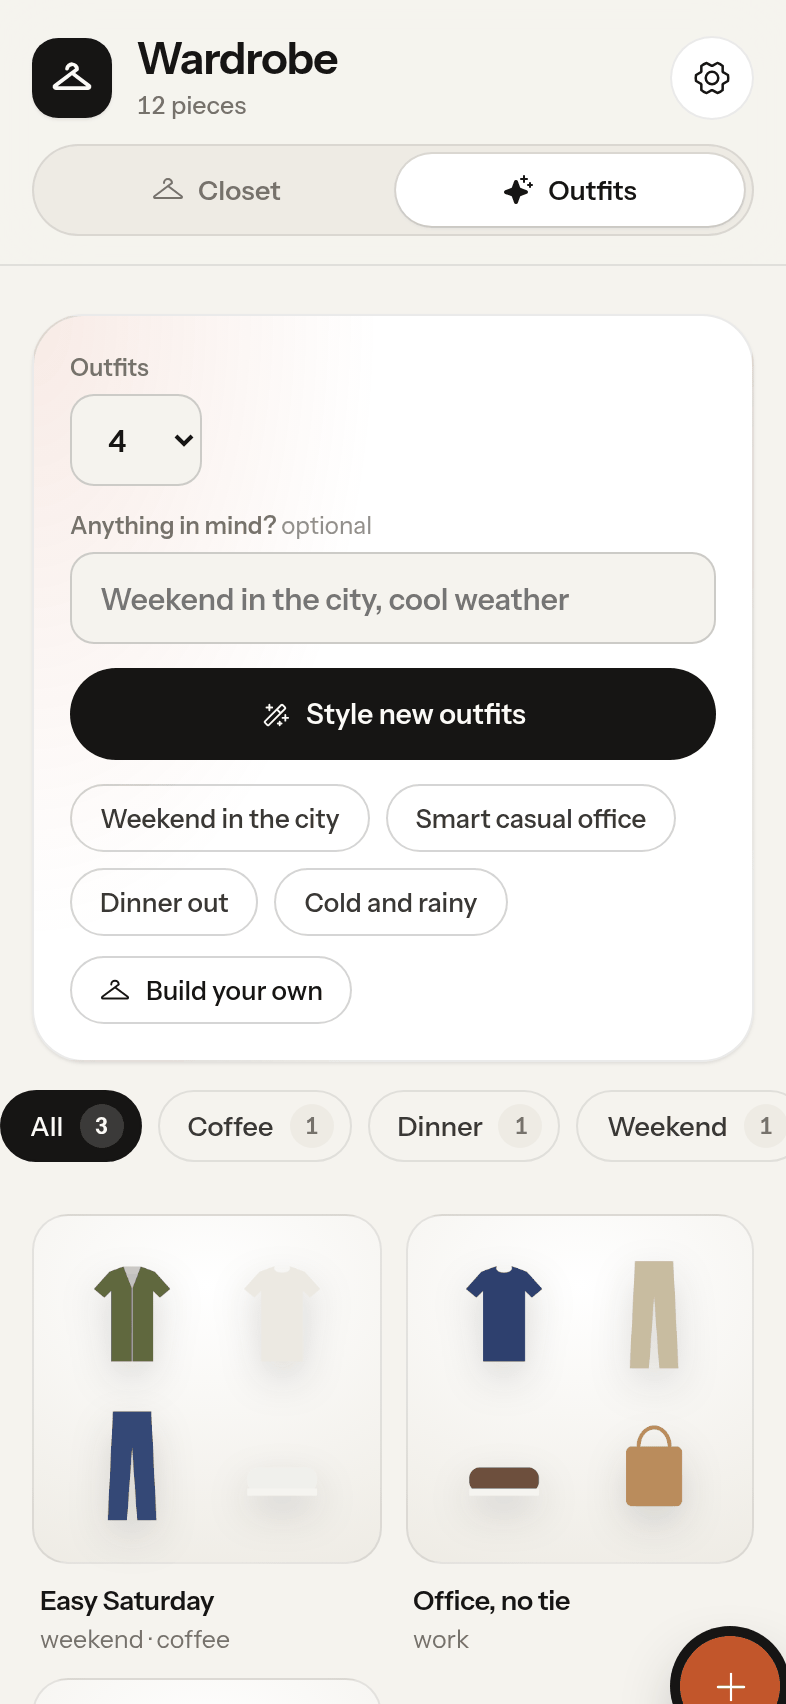
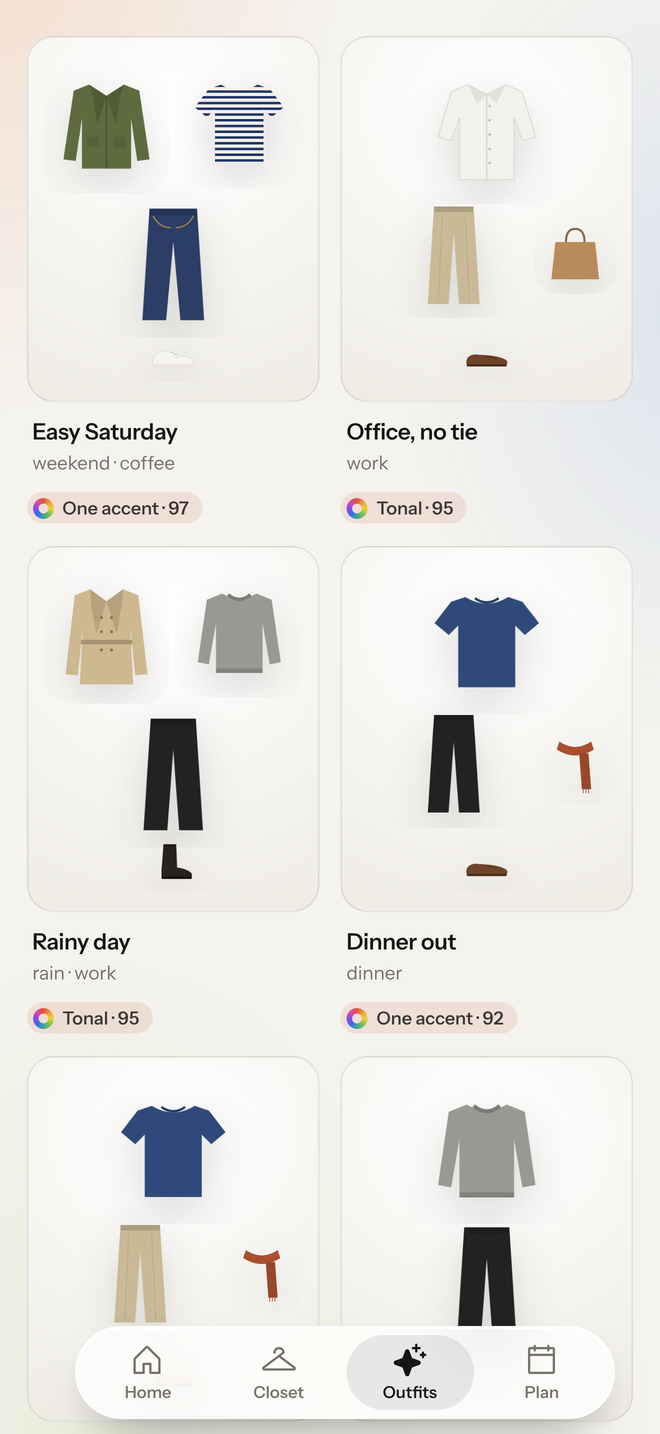
README: what is new up to 3.5.0, fresh screenshots

diff --git a/README.md b/README.md
@@ -2,24 +2,24 @@
 
 # Wardrobe
 
-Your closet on the web, on iPhone and iPad, and on Android. Snap a photo, and the AI you pick (Claude, ChatGPT or Gemini) finds each piece, cuts it out, and styles outfits from what you own.
+Your closet on the web, on iPhone and iPad, and on Android. Snap a photo, and the AI you pick (Claude, ChatGPT or Gemini) finds each piece, cuts it out, and styles outfits from what you own. Each morning, Home has an outfit ready, made on your phone.
 
-[![Version 2.3.0](https://img.shields.io/badge/version-2.3.0-191919?style=flat-square)](CHANGELOG.md)
+[![Version 3.5.0](https://img.shields.io/badge/version-3.5.0-191919?style=flat-square)](CHANGELOG.md)
 [![License: MIT](https://img.shields.io/badge/license-MIT-191919?style=flat-square)](LICENSE)
 [![Node 22+](https://img.shields.io/badge/node-22%2B-191919?style=flat-square)](package.json)
 [![AI: Claude, ChatGPT or Gemini](https://img.shields.io/badge/AI-Claude%20%7C%20ChatGPT%20%7C%20Gemini-191919?style=flat-square)](#pick-your-ai)
+[![iCloud](https://img.shields.io/badge/iCloud-no%20server%20needed-191919?style=flat-square)](#icloud-closet-no-server)
 [![Docker](https://img.shields.io/badge/docker-amd64%20%7C%20arm64-191919?style=flat-square)](docs/synology.md)
-[![Synology](https://img.shields.io/badge/Synology-Container%20Manager-191919?style=flat-square)](docs/synology.md)
 
 Based on [tandpfun/wardrobe](https://github.com/tandpfun/wardrobe) ([original post](https://x.com/cdngdev/status/2076812846793650485)).
 
 </div>
 
-![Wardrobe with a real closet](docs/screenshots/real-closet.png)
+<p align="center"><img src="docs/screenshots/phone-home.png" width="200"> <img src="docs/screenshots/phone-closet.png" width="200"> <img src="docs/screenshots/phone-piece.png" width="200"> <img src="docs/screenshots/phone-plan.png" width="200"></p>
 
-<sub>A real closet from the original project. The other screenshots below use a small drawn sample closet.</sub>
+<sub>Screenshots use a small drawn sample closet.</sub>
 
-**[What's new](#whats-new-in-22)** ·
+**[What's new](#whats-new-in-35)** ·
 **[What it does](#what-it-does)** ·
 **[Screenshots](#screenshots)** ·
 **[Quick start](#quick-start-on-your-computer)** ·
@@ -31,103 +31,85 @@ Based on [tandpfun/wardrobe](https://github.com/tandpfun/wardrobe) ([original po
 **[App stores](#releasing-to-the-app-stores)** ·
 **[Settings](#settings)**
 
-## What's new in 3.0
+## What's new in 3.5
+
+Everything since 3.0, in short. See the [changelog](CHANGELOG.md) for every change.
+
+- **Home.** The app opens on an outfit for today, laid out as worn, with a line that says why it works. Lock the pieces you like and shuffle the rest, swap one piece, say "Not me", or keep it with the heart. A strip shows the next seven days with the weather.
+- **Outfits with no AI.** The phone puts outfits together by itself from the color wheel, the weather, how dressy each piece is and how long it has rested. No key, no cost, and it works offline.
+- **Home Screen widget** on iPhone with today's outfit, in small and medium sizes.
+- **A page for each piece.** How often you wore it, cost per wear, a short note on how to wear it, and pieces from your closet that go well with it.
+- **Plan.** Past days show what you wore. Give a day an occasion (Work, Casual, Dinner or Formal), pin a day so it stays, and set how long a piece rests after a wear.
+- **Your closet in numbers.** Pieces worn in 60 days, closet value, cost per wear, colors, most worn and not worn lately.
+- **Modest wear.** Abaya, thobe, hijab, shemagh and bisht, with their Arabic names, and outfits that pair them.
+- **Easier imports.** The system photo picker on iPhone, a queue that carries on after you close the app, "Try again" for failed photos, and "Add all to my closet".
+- **Feel and look.** Taps you can feel on iPhone, Light, Dark or Auto, seven accent colors, wind and rain in the forecast.
+- **Safer and faster.** A smaller first load, and a protected server that only answers the apps and the sites you name.
+
+## What was new in 3.0
 
 - **No server needed on iPhone and iPad.** Pick **Use iCloud** on the first screen and your closet lives in your own iCloud, synced across your Apple devices. Nothing goes to us.
 - **The AI is called from your phone** with the key you paste, kept in the Keychain.
 - **Move an existing closet** from your server to iCloud in Settings. The server keeps its copy.
 
-## What was new in 2.6
+<details>
+<summary>Older versions (2.1 to 2.6)</summary>
 
-- **Arabic.** The whole app in Arabic, right to left. Switch in Settings.
-- **Dressed for the weather.** Turn on Weather and Today and the plan suit the forecast.
-- **Basics without a photo.** Add a white tee or navy jeans in two taps.
-- **Cleaner cutouts.** Clean cut on iPhone, and a Fix edges brush everywhere.
+- **2.6:** the whole app in Arabic, right to left. Weather for the day. Basics you add with no photo. Clean cutouts on iPhone and a Fix edges brush.
+- **2.5:** the Plan tab fills a month with outfits in one tap, with packing lists for trips. Pieces sort themselves into groups such as Winter, Work and Neutrals. A see-through glass look.
+- **2.4:** a Today card, a row of clothes you have not worn in 60 days, a wear log with cost per wear, and outfits built on the color wheel with a score.
+- **2.3:** the Android app, a bottom tab bar on phones, a clear first run, a yes before any photo goes to an AI, safer image links, and one-button releases to TestFlight and Google Play.
+- **2.2:** pick Claude, ChatGPT or Gemini in Settings and paste its key there.
+- **2.1:** build outfits yourself, edit and filter outfits, filter by color, a new look with dark mode, and a Synology NAS guide.
 
-## What was new in 2.5
-
-- **Plan a month in one tap.** The new Plan tab fills every day with an outfit, with no repeats inside a week. Add a trip and get a packing list.
-- **Sorted for you.** Pieces get a kind, seasons, warmth and dress level, and the closet groups them: Winter, Summer, Work, Neutrals and more.
-- **Glass look.** See-through bars and a floating tab bar, kept light on the battery.
-
-## What was new in 2.4
-
-- **Home.** The app opens on one outfit for today, made on the phone with no AI. Lock a piece and shuffle the rest, say "Not me", or save it with the heart.
-- **Clothes you forgot.** A row shows what has not been worn in 60 days or more.
-- **Wear log and cost per wear.** Tap **Wore today**, add the price, and see what each wear costs.
-- **Outfits built on the color wheel.** Pick tonal, neighbors, opposites or three-way. Every outfit shows its rule and a score.
-
-## What was new in 2.3
-
-Version 2.3 gets the phone apps ready for the App Store and Google Play. See the [changelog](CHANGELOG.md) for every change.
-
-- **Android app.** The same app now runs on Android phones, next to the iPhone and iPad app. See [Android app](#android-app).
-- **Easier on a phone.** Closet and Outfits sit in a tab bar at the bottom, and the header scrolls away so your clothes get the screen.
-- **Clear first run.** The phone app says what you need (a server, its address and its token) and links to the setup guide.
-- **You say yes before any photo goes to an AI.** The app asks once for each AI and names the company behind it.
-- **Safer image links.** Your access token no longer appears in image links or server logs.
-- **One-button releases.** Publishing a GitHub release builds both phone apps and sends them to TestFlight and Google Play. See [Releasing to the app stores](#releasing-to-the-app-stores).
-
-## What was new in 2.2
-
-- **Pick your AI.** Choose Claude, ChatGPT or Gemini in Settings and paste its API key there. No more editing `.env` and restarting. See [Pick your AI](#pick-your-ai).
-
-## What was new in 2.1
-
-Version 2.1 brings together the best of two other builds of this app with our own work. See the [changelog](CHANGELOG.md) for every change.
-
-- **Build outfits yourself.** Pick pieces, give the look a name, occasions and a note, and save it next to the ones the AI styles.
-- **Edit and filter outfits.** Rename an outfit, change its occasions or note, filter the list by occasion, and tap any piece to open it.
-- **Filter by color.** Tap a color dot to see only blue, beige or black pieces. Search understands color words too, so "blue" finds navy.
-- **New look with dark mode**, a settings sheet, search and sort, from the 2.0 redesign.
-- **Run it on a Synology NAS** with Docker, with a step-by-step guide.
+</details>
 
 ## What it does
 
+- **An outfit for today.** Home picks one from your closet each day, and you can lock, shuffle or swap pieces until it feels right.
+- **Plan the week or month.** One tap fills the days, with no repeats inside a week, an occasion per day and a packing list for trips.
+- **Know your closet.** A wear log, cost per wear, clothes you have not worn lately, and your closet in numbers.
 - **Add clothes from a photo.** Drop, paste, choose or take a picture of one piece or a whole outfit. The AI finds every garment and suggests a name, category, colors and tags.
 - **Clean cutouts.** Each piece is cut out of the real photo with background removal, so it looks like your actual item. You check the crop and the cutout before anything is saved.
 - **Style outfits.** Press **Style new outfits** and the AI builds looks from your closet, names them, and says why they work. Add a note like "cool weekend in the city", or tap an idea such as "Dinner out", to steer it.
 - **Build your own outfits.** Press **Build your own**, pick two or more pieces, and save the look. Edit any outfit's name, occasions and note later, and filter outfits by occasion.
 - **Edit and sort.** Filter by tops, jackets, bottoms, accessories and shoes. Change names, colors and tags at any time.
-- **Search, filter and sort.** Find pieces by name, tag, category or color word, tap a color dot to filter, and sort by category, newest, color or name.
-- **Light and dark.** A clean, modern look that follows your system theme, on desktop and phone.
-- **Self-host it.** Run it as a container on your Synology NAS (or any Docker host) so all photos and data stay at home, or on Cloudflare. The web app, phone browsers and the iPhone, iPad and Android apps share one closet.
+- **Search, filter and sort.** Find pieces by name, tag, category or color word, filter by color or group, and sort by category, newest, color or name.
+- **Light and dark.** A clean, modern look in Light, Dark or Auto, with an accent color you pick, on desktop and phone.
+- **iCloud or your own server.** On iPhone and iPad, keep the closet in your own iCloud with no server. Or run it as a container on your Synology NAS (or any Docker host) so all photos and data stay at home, or on Cloudflare. The web app, phone browsers and the iPhone, iPad and Android apps share one closet.
 
 ## Screenshots
 
-| Your closet | Filter by color |
+**On the phone.** Home with today's outfit, the closet, a piece, saved outfits, one outfit, and the month plan.
+
+<p><img src="docs/screenshots/phone-home.png" width="250"> <img src="docs/screenshots/phone-closet.png" width="250"> <img src="docs/screenshots/phone-piece.png" width="250"></p>
+<p><img src="docs/screenshots/phone-outfits.png" width="250"> <img src="docs/screenshots/phone-outfit.png" width="250"> <img src="docs/screenshots/phone-plan.png" width="250"></p>
+
+**On a computer.** Home in light and dark, the closet, and your closet in numbers.
+
+| Home | Home in dark |
 | --- | --- |
-| ![Closet](docs/screenshots/gallery.png) | ![Color filter](docs/screenshots/color-filter.png) |
+| ![Home](docs/screenshots/desktop-home-light.png) | ![Home in dark](docs/screenshots/desktop-home-dark.png) |
 
-| Edit a piece | Server & settings |
+| Closet | Your closet in numbers |
 | --- | --- |
-| ![Editor](docs/screenshots/editor.png) | ![Settings](docs/screenshots/settings.png) |
-
-**Outfits.** The AI styles looks from your closet. Filter them by occasion, open one to see its pieces, or edit its name, occasions and note.
-
-| Outfits | One outfit |
-| --- | --- |
-| ![Outfits](docs/screenshots/outfits.png) | ![Outfit](docs/screenshots/outfit.png) |
-
-**Build your own.** Pick the pieces and the collage fills in as you go.
-
-![Build an outfit](docs/screenshots/outfit-builder.png)
+| ![Closet](docs/screenshots/desktop-closet.png) | ![Closet numbers](docs/screenshots/desktop-numbers.png) |
 
 **Review before saving.** After the AI finds a piece and the background is removed, you check the details, then approve, reject, or keep the background.
 
 ![Import review](docs/screenshots/import-review.png)
 
-**On the phone.** The closet in dark mode, outfits, and the iPhone app's connect screen.
+**A real closet** from the original project:
 
-<p><img src="docs/screenshots/phone-dark.png" width="250"> <img src="docs/screenshots/phone-outfits.png" width="250"> <img src="docs/screenshots/phone-connect.png" width="250"></p>
+![Wardrobe with a real closet](docs/screenshots/real-closet.png)
 
 ## Quick start (on your computer)
 
 You need Node 22 or newer and an API key for Claude, ChatGPT or Gemini (see [Pick your AI](#pick-your-ai)).
 
 ```bash
-git clone https://github.com/njarrar/wardrobe-najeeb.git
-cd wardrobe-najeeb
+git clone https://github.com/njarrar/wardrobe-web-ios.git
+cd wardrobe-web-ios
 npm install
 cp .env.example .env
 npm run dev              # http://localhost:5173
@@ -238,6 +220,12 @@ On iPhone and iPad you can skip the server: tap **Use iCloud** on the first scre
 
 Before the first release with iCloud, turn on **iCloud** (with CloudKit off, iCloud Documents on) for `com.njarrar.wardrobe` in the Apple Developer site under Identifiers, and add the container `iCloud.com.njarrar.wardrobe`. The release workflow signs automatically and picks it up from there.
 
+### Home Screen widget
+
+The `WardrobeWidget` target shows today's outfit on the Home Screen, in small and medium sizes. The app writes the week's outfits to a shared App Group (`group.com.njarrar.wardrobe`), and the widget moves to the next day on its own. Before the first signed build, add that App Group in the Apple Developer site and turn it on for both `com.njarrar.wardrobe` and `com.njarrar.wardrobe.widget`.
+
+On iPhone, **Choose images** opens Apple's photo picker, so the app needs no photo permission. Taps on Wear this, Shuffle, Lock, Swap, the heart and Pin day give a small buzz.
+
 On any phone, the add button offers **Take photo** next to **Choose images**. Photos are turned upright and shrunk to 2048 px before upload.
 
 ## Android app
@@ -272,13 +260,15 @@ The import skill finds each garment, cuts it out, checks every cutout, then writ
 
 | Part | Where |
 | --- | --- |
-| Web app (React 19 + Vite) | `src/` (closet in `App.jsx`, outfits in `Outfits.jsx`, settings in `SettingsSheet.jsx`) |
+| Web app (React 19 + Vite) | `src/` (Home in `Home.jsx`, closet in `App.jsx` and `ClosetGrid.jsx`, a piece in `ItemViewer.jsx`, outfits in `Outfits.jsx`, plan in `Plan.jsx`, settings in `SettingsSheet.jsx`) |
+| Outfits made on the phone, color wheel, plan, pairing | `shared/make-outfit.mjs`, `shared/style.mjs`, `shared/pairing.mjs` |
+| iCloud closet with no server | `src/local/` |
 | Local server and API | `scripts/import-job-api.mjs`, `scripts/serve.mjs` |
 | Rules shared by the server and the Worker (item edits, outfits) | `shared/core.mjs` |
 | Cloudflare Worker (R2, D1, Queue, Images) | `worker/`, `wrangler.jsonc` |
 | AI calls for Claude, ChatGPT and Gemini (finding clothes, styling outfits) | `shared/ai.mjs` |
 | AI picker in Settings | `src/AiSettings.jsx` |
-| iPhone app (Capacitor) | `ios/` |
+| iPhone app (Capacitor), widget and native plugins | `ios/` (`WardrobeWidget/`, `App/NativeExtras.swift`, `App/PhotoPicker.swift`) |
 | Android app (Capacitor) | `android/` |
 | Docker image and Synology setup | `Dockerfile`, `docker/`, `docker-compose.yml`, `docs/synology.md` |
 | Image publishing (GHCR, amd64 + arm64) | `.github/workflows/docker.yml` |
@@ -303,6 +293,7 @@ Your photos and closet stay in `data/` on your computer (or in your own R2 and D
 | `WARDROBE_DATA_DIR` | `data` |
 | `WARDROBE_HOST` | `127.0.0.1` |
 | `WARDROBE_TOKEN` | Required when `WARDROBE_HOST` is not local, and on Cloudflare |
+| `WARDROBE_CORS_ORIGINS` | Other web addresses, comma separated, that may call a protected server from a browser |
 | `PORT` | `4173` (for `npm start`) |
 | `PUID` / `PGID` | `1026` / `100` (Docker only: owner of files in `./data`) |
 | `TZ` | `Europe/London` (Docker only) |
@@ -314,7 +305,7 @@ Your photos and closet stay in `data/` on your computer (or in your own R2 and D
 npm test           # API and image tests, with a stand-in for the Claude, OpenAI and Gemini APIs
 npm run check      # build, test, and check the iOS app has the same version
 npm run test:ui    # open the built app on a phone-sized screen (needs Playwright's Chromium)
-npm version 2.3.0  # bump the version everywhere, including the iOS app
+npm version 3.5.0  # bump the version everywhere, including the iOS app
 ```
 
 ## Changelog
